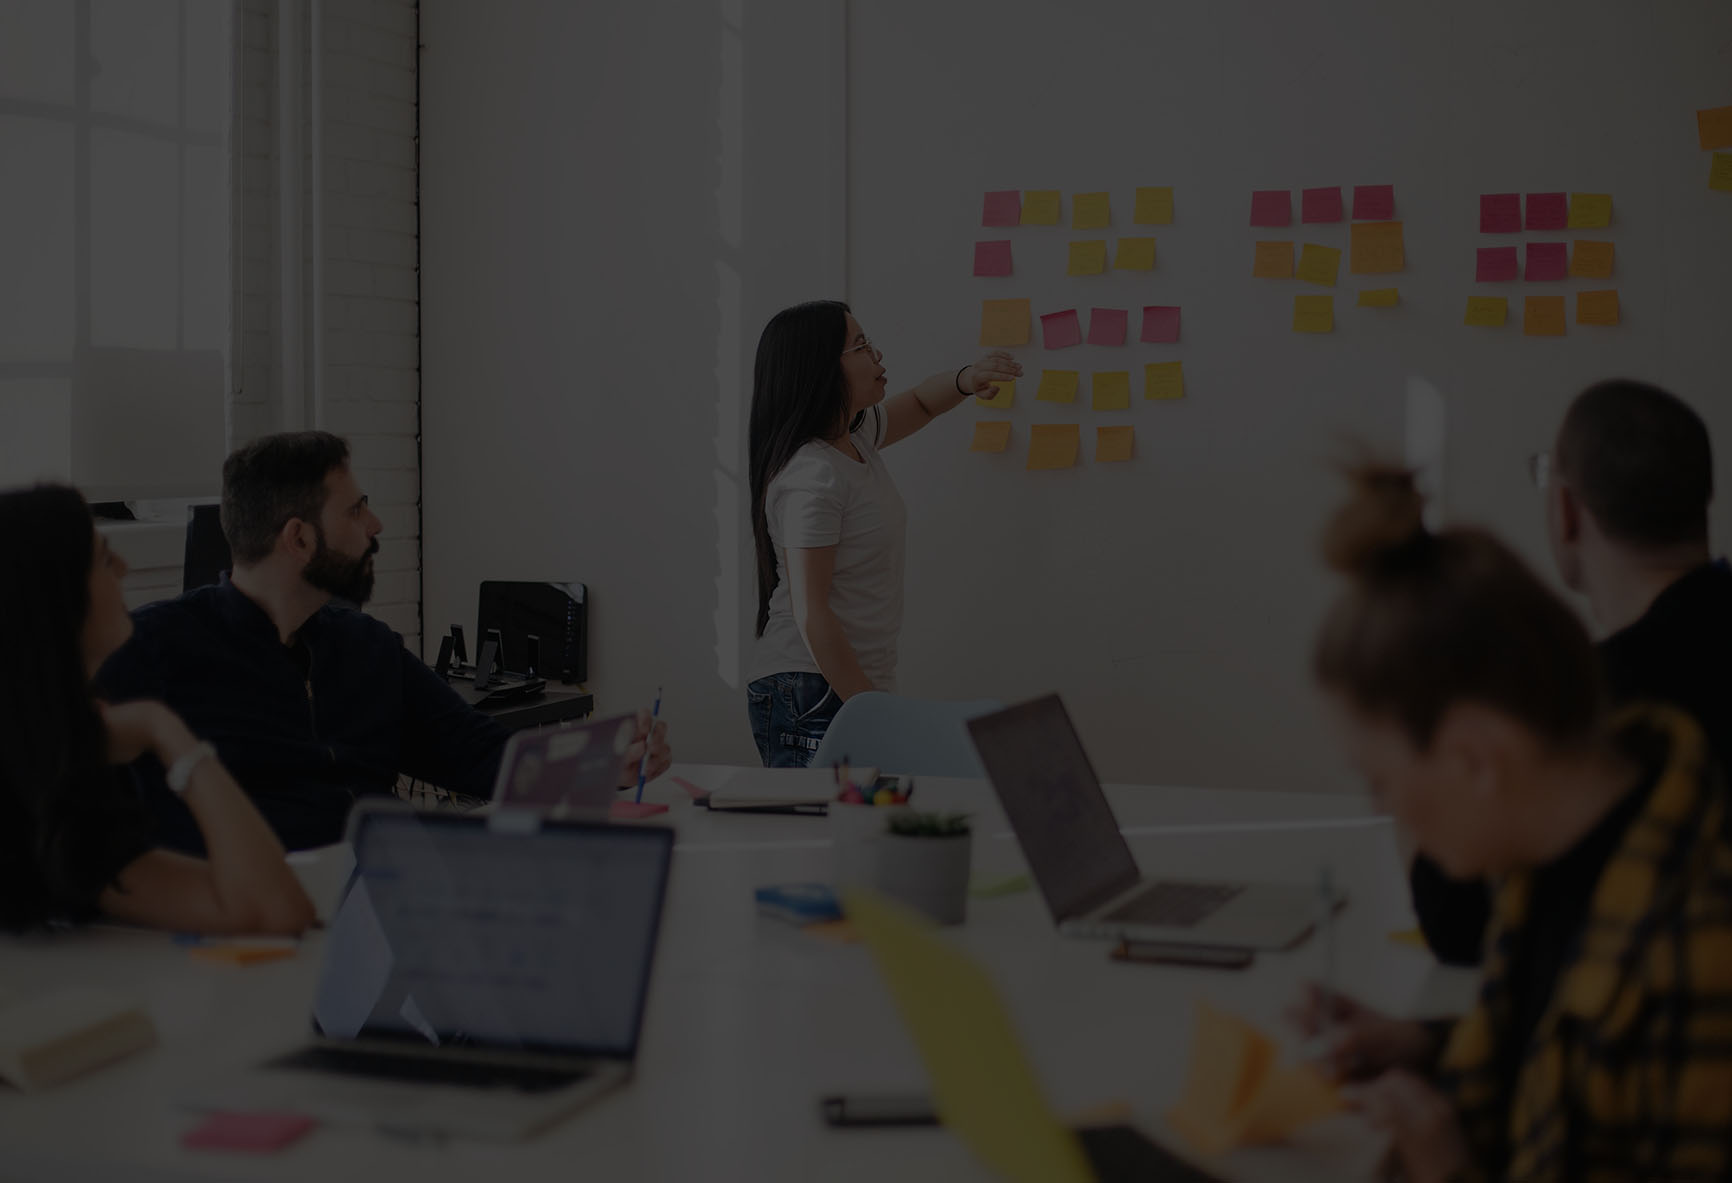
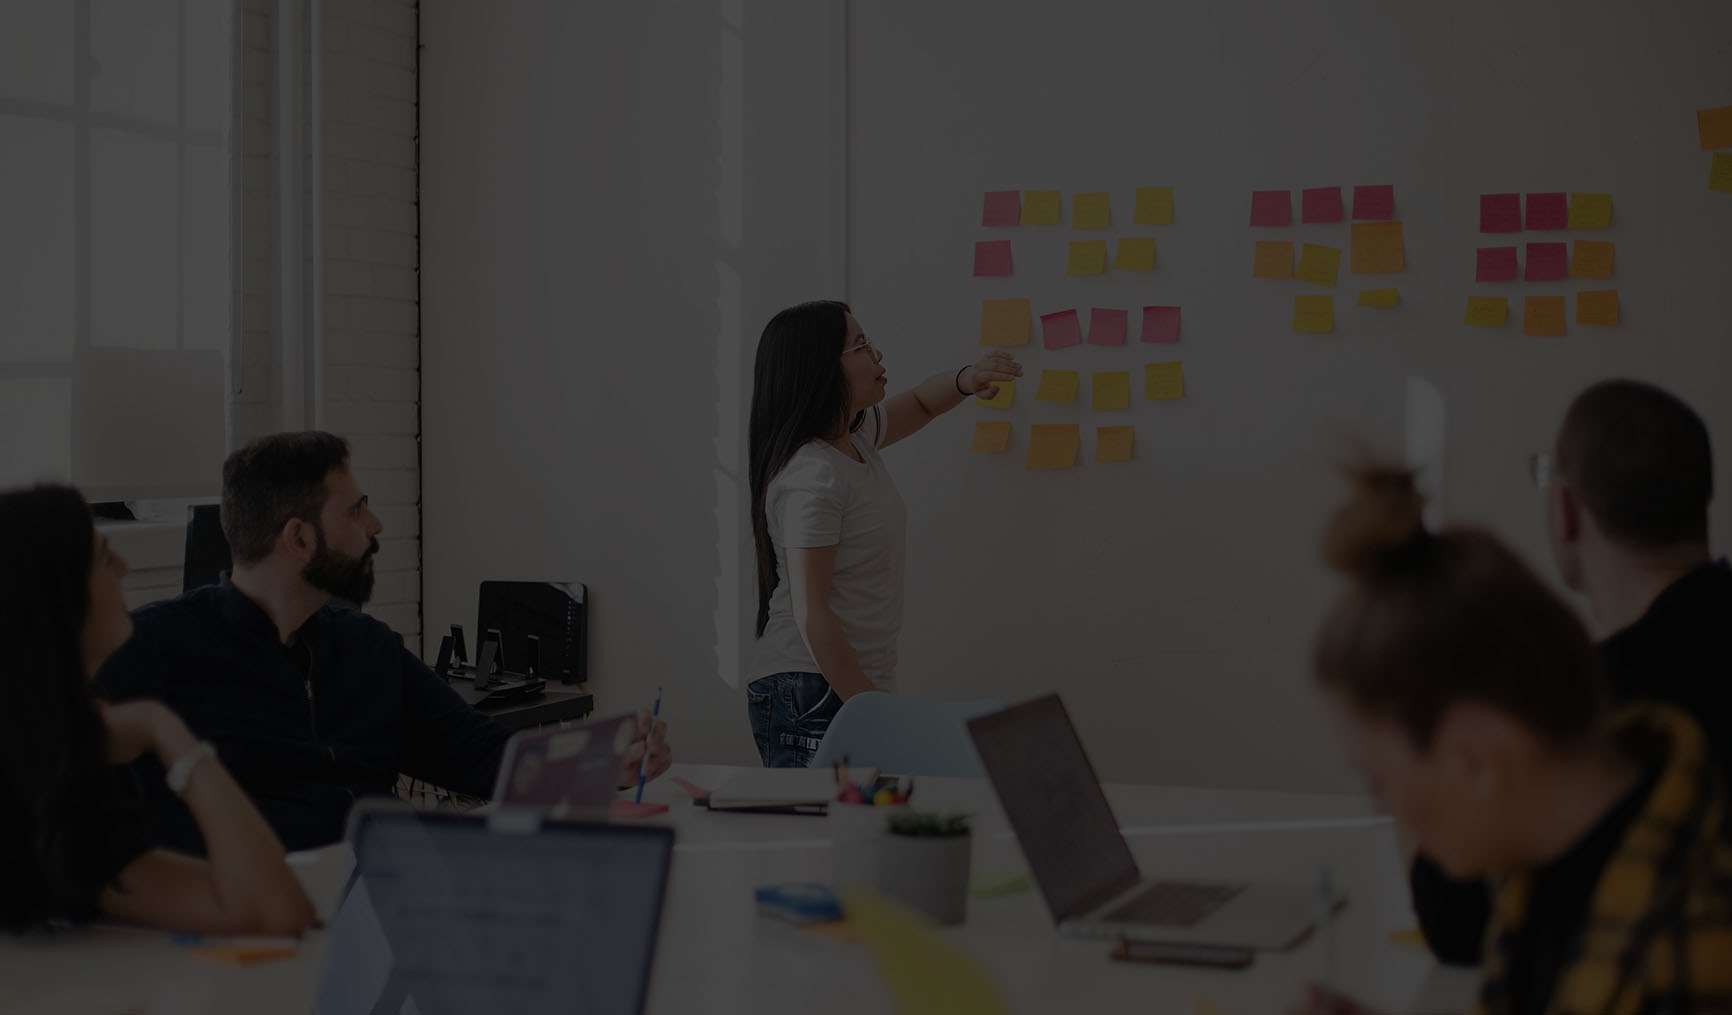
reposition bg image

diff --git a/_layouts/strategy.html b/_layouts/strategy.html
@@ -99,7 +99,6 @@ layout: default-sub
           {%- endfor -%}
         {% assign ws = '' %}
         </div>
-          <div class="col-lg-12" style="text-align:center;"><br><BR><a class="btn btn-secondary btn-xl text-uppercase js-scroll-trigger" href="#contact">{{ site.data.home.services.btn }}</a></div>
       </div>
     </section>
 
@@ -224,13 +223,12 @@ layout: default-sub
             </div>                          
           </div>
         </div>
-          <div class="col-lg-12" style="text-align:center;"><br><BR><a class="btn btn-secondary btn-xl text-uppercase js-scroll-trigger" href="#contact">{{ site.data.home.testimonials.btn }}</a></div>
       </div>
     </section>
 
 
 <!-- Contact -->
-<section id="contact" style="background-image: url(../img/contact-bg4.jpg)!important; background-position:right;">
+<section id="contact" style="background-image: url(../img/contact-bg5.jpg)!important; background-position:right;">
       <div class="container">
         <div class="row">
           <div class="col-lg-12 text-left">
